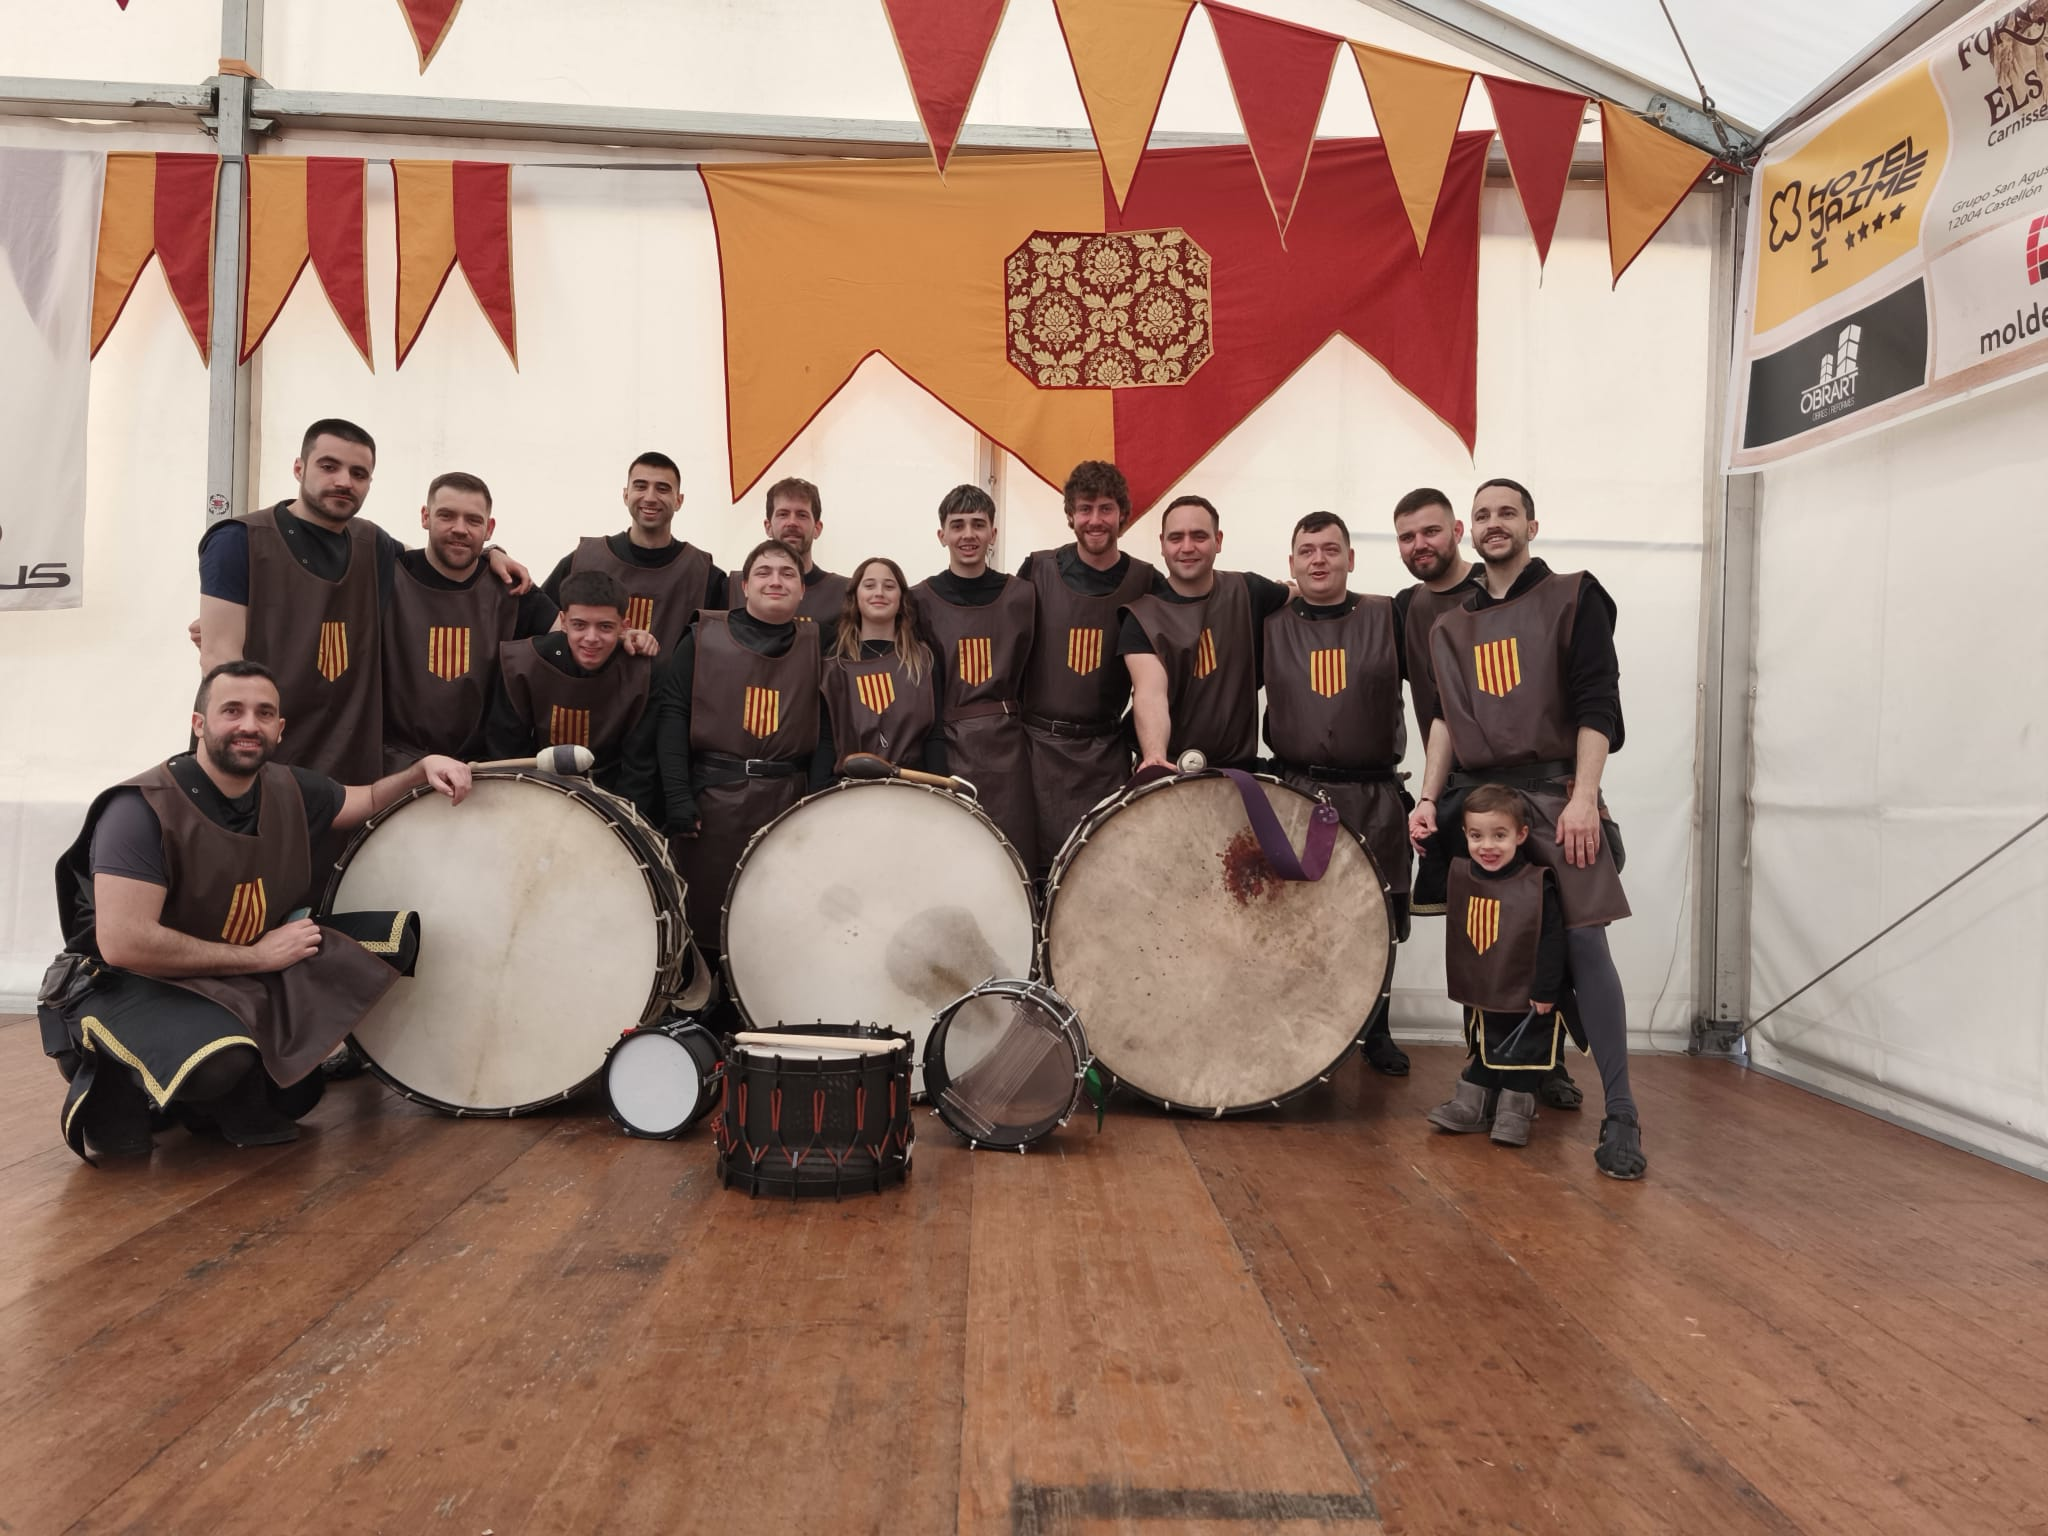
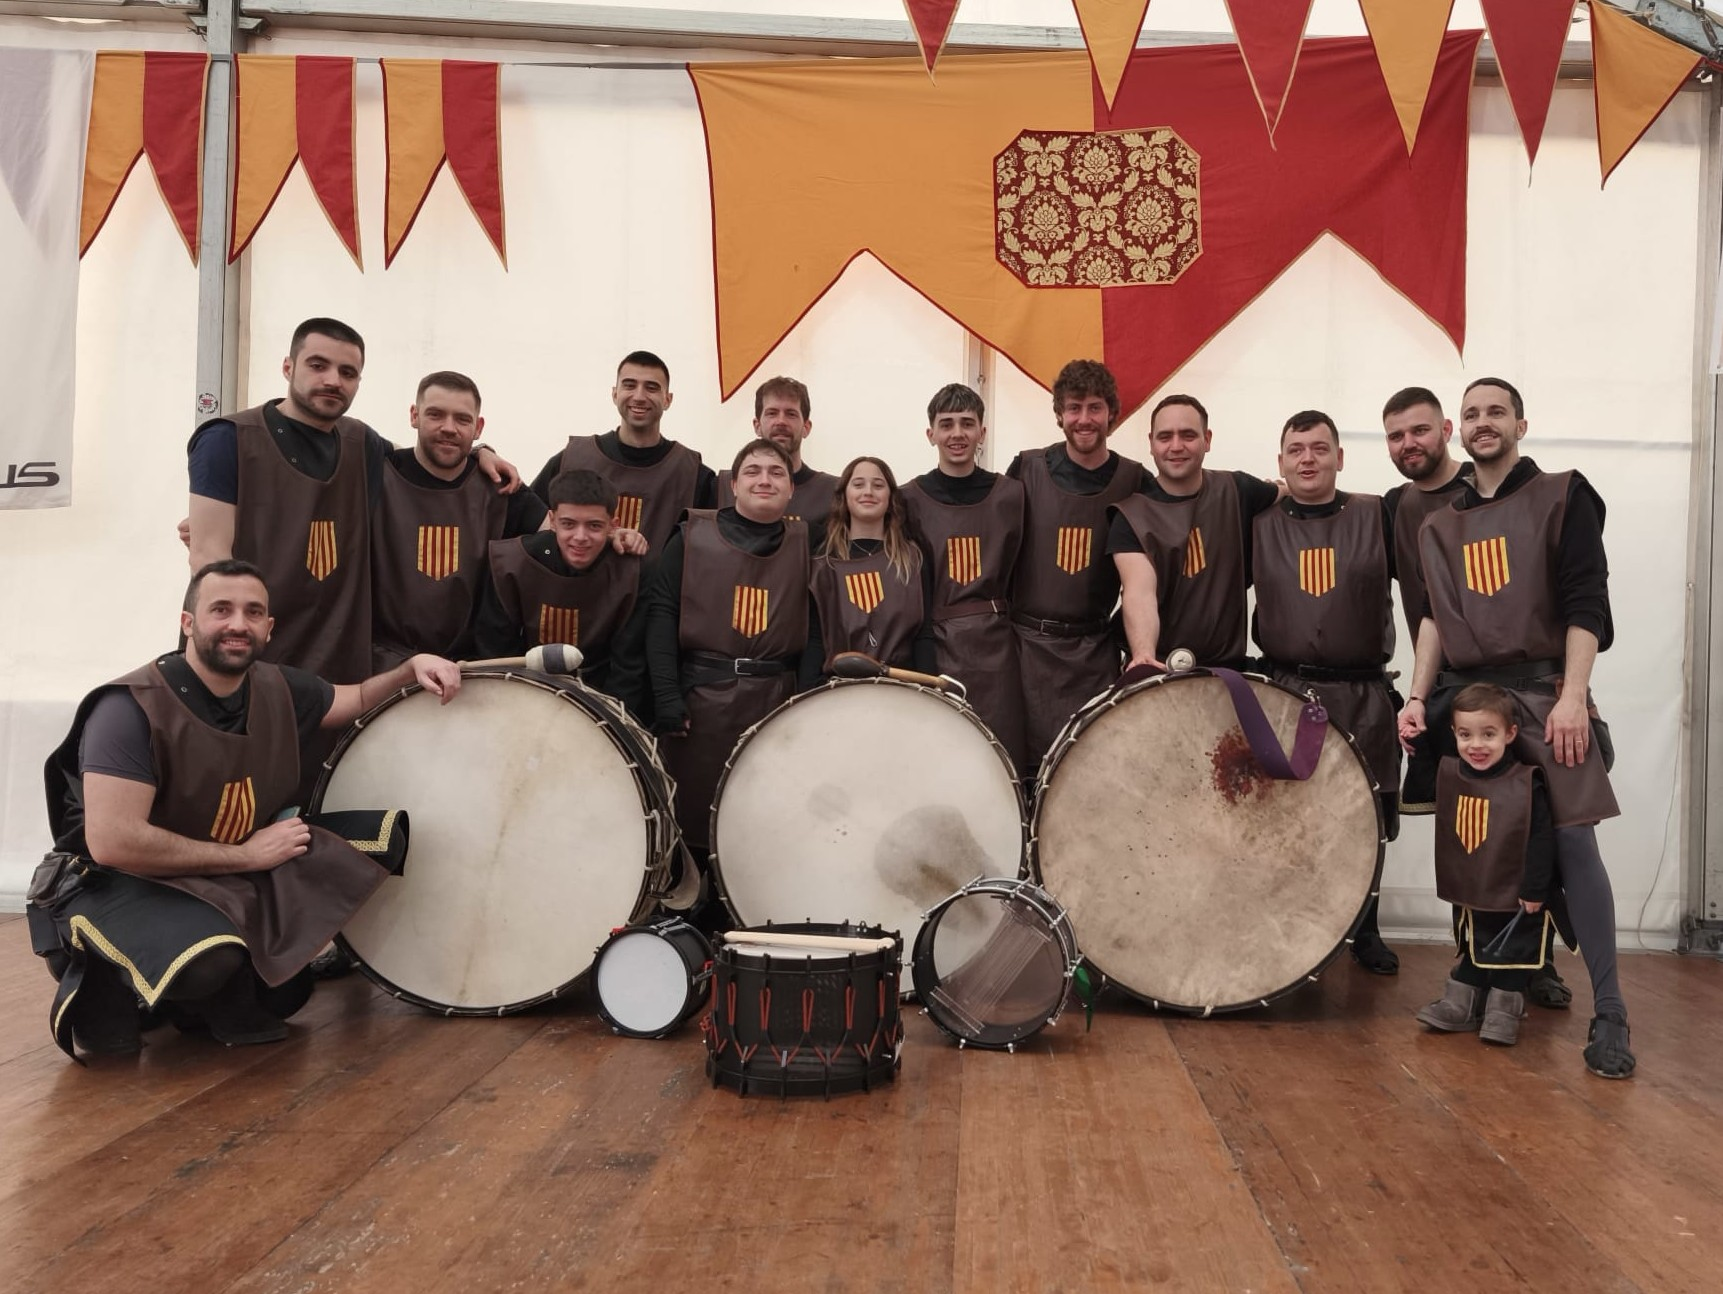
actu

diff --git a/despertaferro-web/src/components/site/SectionPage.tsx b/despertaferro-web/src/components/site/SectionPage.tsx
@@ -398,7 +398,26 @@ function MemberCard({ name }: { name: string }) {
             src={image}
             alt={`Foto de ${name}`}
             className="h-full w-full object-cover"
-            style={{ objectPosition: name === "Pablo" ? "center 32%" : name === "Aitana" ? "center 34%" : name === "Victor" ? "center 34%" : name === "Ruben" ? "center 46%" : name === "Pau" ? "center 40%" : name === "David" ? "center 40%" : "center" }}
+            style={{
+              objectPosition:
+                name === "Pablo"
+                  ? "center 32%"
+                  : name === "Aitana"
+                    ? "center 34%"
+                    : name === "Victor"
+                      ? "center 34%"
+                      : name === "Ruben"
+                        ? "center 46%"
+                        : name === "Gerard"
+                          ? "center 45%"
+                        : name === "Sergio"
+                          ? "center 65%"
+                          : name === "Pau"
+                            ? "center 40%"
+                            : name === "David"
+                              ? "center 40%"
+                              : "center",
+            }}
           />
         </ImageLightbox>
       ) : (
@@ -428,10 +447,12 @@ function MemberGroup({ title, text, members }: { title: string; text: string; me
 }
 
 const memberImages: Record<string, string> = {
+  Sergio: "/Fotos-componentes/Serfio-DF.jpeg",
   Fernando: "/Fotos-componentes/Fer-DF.jpg",
   "Jose V.": "/Fotos-componentes/Jose%20V.-DF.jpeg",
   Pablo: "/Fotos-componentes/Pablo-DF.jpeg",
   "Jose M.": "/Fotos-componentes/Jose%20M.-DF.jpg",
+  Gerard: "/Fotos-componentes/Gerard-DF.jpeg",
   Pau: "/Fotos-componentes/Pau-DF.jpeg",
   David: "/Fotos-componentes/David-DF.jpg",
   Liam: "/Fotos-componentes/Liam-DF.jpeg",
